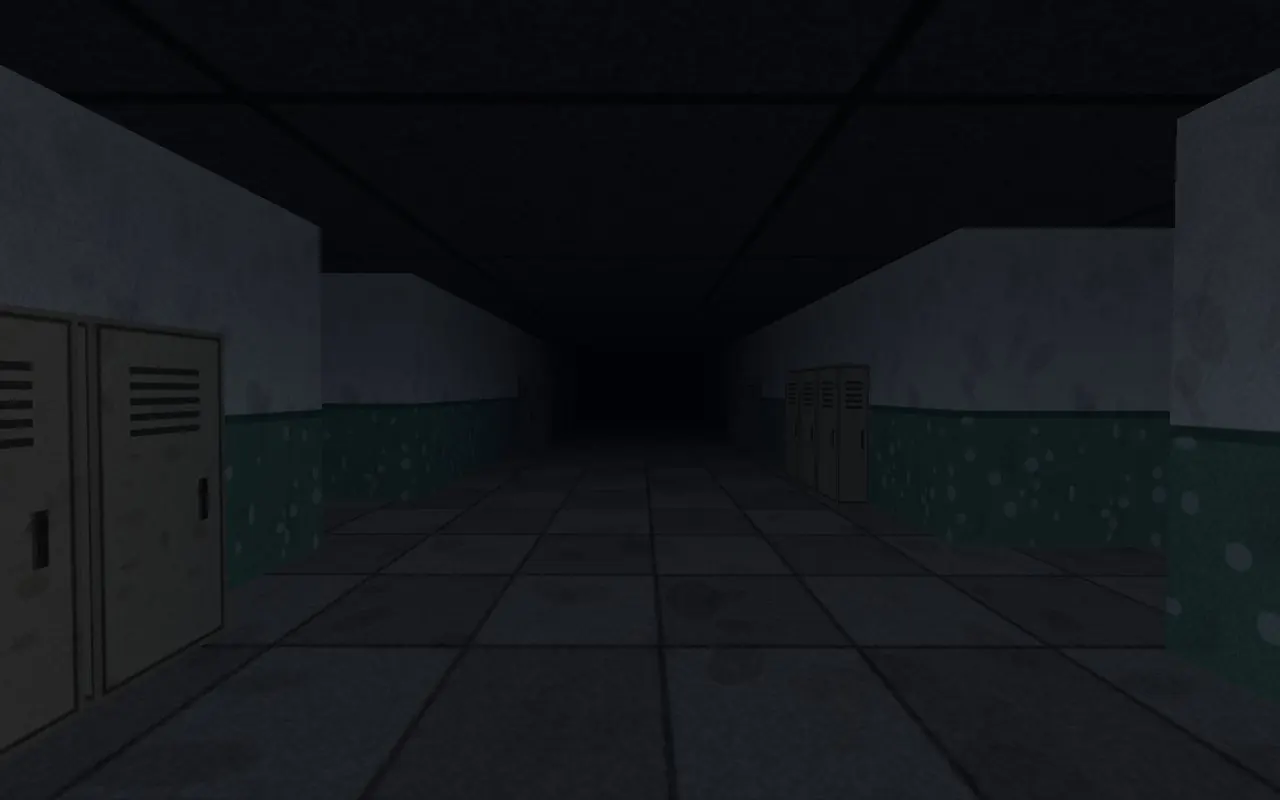
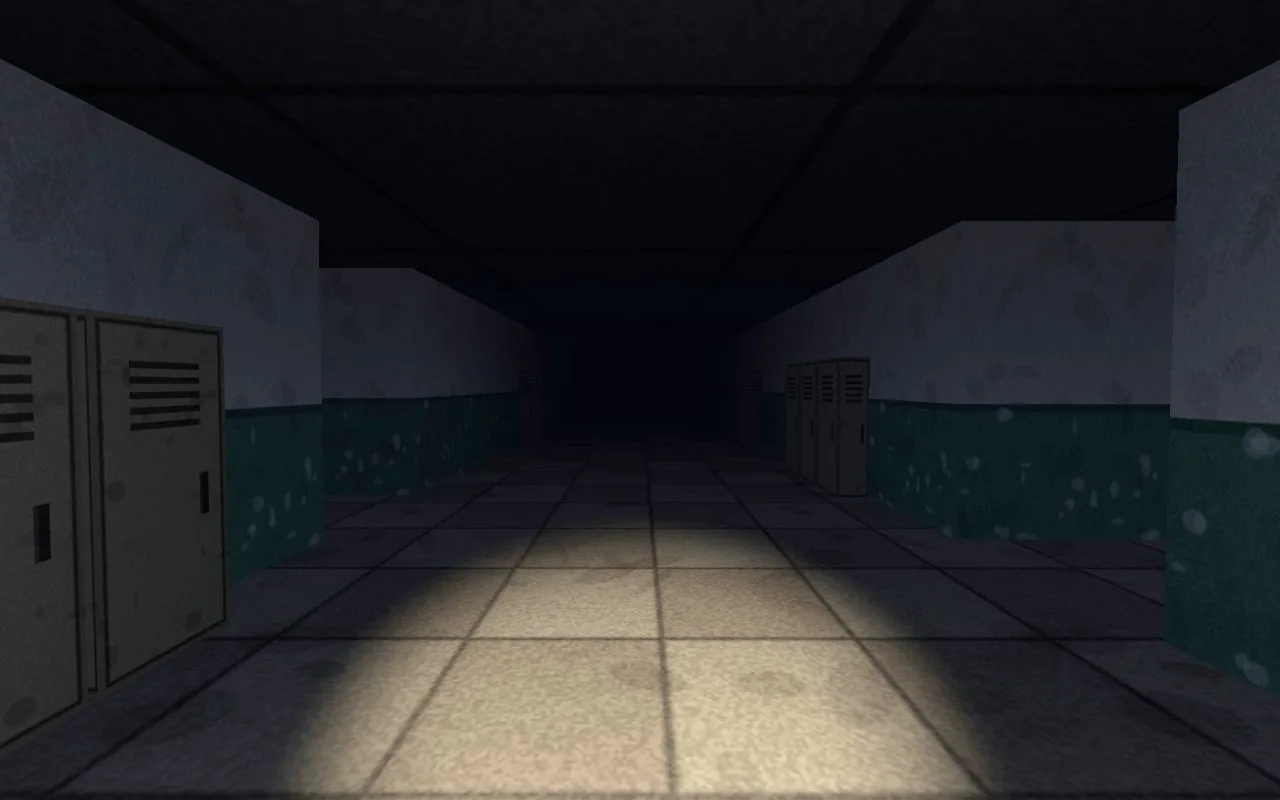
야간자율학습 — 손전등 수리 + 화면 어둡게 + 발소리 교체 + 카드 그림
폰에서 너무 밝다는 지적을 좇다가 진짜 원인을 찾았다.

★ 손전등이 여태 아무것도 안 밝히고 있었다.
  재질이 MeshLambertMaterial 이라 빛을 꼭짓점에서만 계산하는데(Gouraud),
  벽 한 면이 꼭짓점 넷, 바닥은 학교 전체가 판 한 장이라
  좁은 손전등 원뿔(25도)이 꼭짓점 사이로 빠져나가 아무 데도 안 닿았다.
  화면에 보이던 밝기는 전부 바탕빛이었고, 그래서 어디를 가나 고르게 밝았다.
  MeshPhongMaterial(픽셀마다 계산)로 바꾸니 바닥에 원뿔이 제대로 생긴다.

- 바탕빛을 낮췄다: Ambient 0.42→0.19, Hemisphere 0.30→0.13, 안개 0.075→0.085
- 창문·달빛·문틈 빛은 MeshBasicMaterial 이라 바탕빛과 무관하다. 그림 자체를 어둡게 했다
- 결과: 손전등 끈 복도 평균 밝기 24.7 → 17.3, 켜면 23.7
  (고치기 전에는 켜나 끄나 24.7 로 똑같았다)

발소리를 Pixabay 'Walking on the asphalt'(freesound_community, 19807)로 바꿨다.
67초 원본에서 센 발짝 넷을 0.30초씩 잘라 -3.1dB 로 맞췄다. 사용자가 고른 음원이다.

카드 그림을 다시 찍었다. 목록에서 어두운 네모로만 보여 형체가 안 보인다는 지적.
손전등을 켠 복도로 찍고 카드용으로만 밝기를 1.9배 올렸다(게임 밝기와는 무관).

봇 완주 3판 재확인. '바로 플레이' ?v=20260829c, 그림 ?v=2.

diff --git a/games/mini/night-study/play/index.html b/games/mini/night-study/play/index.html
@@ -442,10 +442,10 @@ function makeBattTex(){
 function makeWindowTex(){
   const c=cv(128,128), g=c.getContext('2d');
   const gr=g.createLinearGradient(0,0,0,128);
-  gr.addColorStop(0,'#3d4c6e'); gr.addColorStop(.5,'#26314a'); gr.addColorStop(1,'#141a29');
+  gr.addColorStop(0,'#222d47'); gr.addColorStop(.5,'#161d2e'); gr.addColorStop(1,'#0a0d16');
   g.fillStyle=gr; g.fillRect(0,0,128,128);
   for(let i=0;i<40;i++){
-    g.fillStyle='rgba(200,220,255,'+rnd(.02,.1).toFixed(2)+')';
+    g.fillStyle='rgba(200,220,255,'+rnd(.01,.05).toFixed(2)+')';
     g.beginPath(); g.arc(rnd(0,128),rnd(0,90),rnd(.6,1.8),0,7); g.fill();
   }
   g.fillStyle='#1a1c22';                                  // 창틀
@@ -603,14 +603,15 @@ function drawGhost(revealed){
   return t2;
 }
 
-/* 발소리 — Pixabay 'Foot Steps' (freesound_community, 77348) 에서 한 발짝씩 넉 장을 잘라 넣었다.
-   상업 이용 가능·출처 표기 불필요. 원본 주소는 작업기록.md 에 적어 뒀다.
-   파일로 두지 않고 여기 심는 까닭은 이 게임이 'html 한 장'이기 때문이다. 넷 합쳐 24KB. */
+/* 발소리 — Pixabay 'Walking on the asphalt' (freesound_community, 19807) 에서
+   센 발짝 넷을 골라 0.30초씩 잘라 넣었다. 상업 이용 가능·출처 표기 불필요.
+   원본 주소와 자른 지점은 작업기록.md 에 적어 뒀다.
+   파일로 두지 않고 여기 심는 까닭은 이 게임이 'html 한 장'이기 때문이다. 넷 합쳐 23KB. */
 const STEP_MP3 = [
[8 lines of base64/hex data omitted]
 ];
 
 /* ══════════ 소리 — 파일 없이 그때그때 만들어 낸다 ══════════ */
@@ -767,7 +768,7 @@ renderer.shadowMap.type = THREE.PCFSoftShadowMap;
 
 const scene = new THREE.Scene();
 scene.background = new THREE.Color(0x000000);
-scene.fog = new THREE.FogExp2(0x010206, 0.075);
+scene.fog = new THREE.FogExp2(0x010206, 0.085);
 
 const camera = new THREE.PerspectiveCamera(74, 1, 0.05, 120);
 const yawObj = new THREE.Object3D();          // 좌우 회전
@@ -776,8 +777,8 @@ yawObj.add(pitchObj); pitchObj.add(camera);
 scene.add(yawObj);
 
 // 아주 어두운 바탕빛 + 창으로 드는 푸른 달빛
-scene.add(new THREE.AmbientLight(0x121727, 0.42));
-const moon = new THREE.HemisphereLight(0x2b3c5e, 0x05060a, 0.30);
+scene.add(new THREE.AmbientLight(0x121727, 0.19));
+const moon = new THREE.HemisphereLight(0x2b3c5e, 0x05060a, 0.13);
 scene.add(moon);
 
 // 손전등
@@ -789,7 +790,7 @@ torch.shadow.bias = -0.0016;
 camera.add(torch); camera.add(torch.target);
 torch.target.position.set(0,0,-1);
 // 손전등이 꺼져도 코앞은 조금 보이게
-const nearGlow = new THREE.PointLight(0x8fa4c8, 0.42, 5.6, 1.6);
+const nearGlow = new THREE.PointLight(0x8fa4c8, 0.28, 5.2, 1.6);
 camera.add(nearGlow);
 
 const TEX = {
@@ -824,7 +825,7 @@ function instanced(geo, mat, list, shadow){
     if(!touches) continue;                       // 아무도 못 보는 벽은 안 만든다
     list.push([cx2wx(x), WALL_H/2, cy2wz(y)]);
   }
-  const mat = new THREE.MeshLambertMaterial({map:TEX.wall});
+  const mat = new THREE.MeshPhongMaterial({shininess:1, specular:0x0b0b0e, map:TEX.wall});
   instanced(new THREE.BoxGeometry(CELL,WALL_H,CELL), mat, list, true);
 })();
 
@@ -832,10 +833,10 @@ function instanced(geo, mat, list, shadow){
 (function buildFloorCeil(){
   const W=MW*CELL, D=MH*CELL;
   const f=new THREE.Mesh(new THREE.PlaneGeometry(W,D),
-          new THREE.MeshLambertMaterial({map:TEX.floor}));
+          new THREE.MeshPhongMaterial({shininess:1, specular:0x0b0b0e, map:TEX.floor}));
   f.rotation.x=-Math.PI/2; f.receiveShadow=true; scene.add(f);
   const c=new THREE.Mesh(new THREE.PlaneGeometry(W,D),
-          new THREE.MeshLambertMaterial({map:TEX.ceil}));
+          new THREE.MeshPhongMaterial({shininess:1, specular:0x0b0b0e, map:TEX.ceil}));
   c.rotation.x=Math.PI/2; c.position.y=WALL_H; scene.add(c);
 })();
 
@@ -846,7 +847,7 @@ function instanced(geo, mat, list, shadow){
   const pool=(()=>{                              // 달빛 웅덩이
     const c=cv(128,128), g=c.getContext('2d');
     const gr=g.createRadialGradient(64,64,4,64,64,62);
-    gr.addColorStop(0,'rgba(150,178,235,.5)'); gr.addColorStop(1,'rgba(120,150,220,0)');
+    gr.addColorStop(0,'rgba(150,178,235,.26)'); gr.addColorStop(1,'rgba(120,150,220,0)');
     g.fillStyle=gr; g.fillRect(0,0,128,128);
     return new THREE.CanvasTexture(c);
   })();
@@ -899,14 +900,14 @@ const hideSpots = [];
       if(isWall(x,y1+1) && isWall(x-1,y1+1) && isWall(x+1,y1+1)) bank(x,y1,0);
     }
   });
-  const mat=new THREE.MeshLambertMaterial({map:TEX.locker});
+  const mat=new THREE.MeshPhongMaterial({shininess:1, specular:0x0b0b0e, map:TEX.locker});
   instanced(new THREE.BoxGeometry(0.86,2.0,0.44), mat, list, true);
 })();
 
 /* ── 책상·의자·칠판 ── */
 (function buildRooms(){
   const desks=[], chairs=[];
-  const deskMat=new THREE.MeshLambertMaterial({map:TEX.desk});
+  const deskMat=new THREE.MeshPhongMaterial({shininess:1, specular:0x0b0b0e, map:TEX.desk});
   ROOMS.forEach((r,ri)=>{
     const [x1,y1,x2,y2,name]=r;
     const wx1=cx2wx(x1)-CELL/2, wx2=cx2wx(x2)+CELL/2;
@@ -928,7 +929,7 @@ const hideSpots = [];
       // 칠판 — 옆벽에 건다. 바깥벽에는 창이 있으므로 안쪽 벽을 고른다
       const bw = Math.min(4.2,(wz2-wz1)*0.55);
       const b=new THREE.Mesh(new THREE.PlaneGeometry(bw,1.5),
-              new THREE.MeshLambertMaterial({map:makeBoardTex()}));
+              new THREE.MeshPhongMaterial({shininess:1, specular:0x0b0b0e, map:makeBoardTex()}));
       if(x2 >= MW-2){ b.position.set(wx1+0.05, 1.62, mz); b.rotation.y =  Math.PI/2; }
       else          { b.position.set(wx2-0.05, 1.62, mz); b.rotation.y = -Math.PI/2; }
       scene.add(b);
@@ -943,11 +944,11 @@ let exitDoor, exitLight, exitSignMat;
 (function buildExit(){
   const ex=(cx2wx(14)+cx2wx(15))/2, ez=cy2wz(25)+CELL/2-0.05;
   const g=new THREE.PlaneGeometry(CELL*1.9, 2.5);
-  exitDoor=new THREE.Mesh(g, new THREE.MeshLambertMaterial({color:0x2a2118}));
+  exitDoor=new THREE.Mesh(g, new THREE.MeshPhongMaterial({shininess:1, specular:0x0b0b0e, color:0x2a2118}));
   exitDoor.position.set(ex,1.25,ez); exitDoor.rotation.y=Math.PI; scene.add(exitDoor);
   // 문틈으로 새는 바깥 불빛
   const slit=new THREE.Mesh(new THREE.PlaneGeometry(CELL*1.9,0.1),
-    new THREE.MeshBasicMaterial({color:0x9fb6d8, transparent:true, opacity:.5}));
+    new THREE.MeshBasicMaterial({color:0x9fb6d8, transparent:true, opacity:.34}));
   slit.position.set(ex,0.06,ez-0.06); slit.rotation.x=-Math.PI/2; scene.add(slit);
 
   const signGeo=new THREE.PlaneGeometry(1.1,0.55);
@@ -1011,7 +1012,7 @@ function spawnPickups(nPaper, nBatt){
     scene.add(m);
     const h = new THREE.Mesh(new THREE.PlaneGeometry(1.5,1.5),
       new THREE.MeshBasicMaterial({map:halo, transparent:true,
-        blending:THREE.AdditiveBlending, depthWrite:false, opacity:.5}));
+        blending:THREE.AdditiveBlending, depthWrite:false, opacity:.34}));
     h.position.copy(m.position); scene.add(h);
     pickups.push({kind, mesh:m, halo:h, x:px, z:pz, taken:false, ph:rnd(0,6.3)});
   };
@@ -1653,6 +1654,8 @@ window.__ns = {
   start: startGame,
   mute: v=>Snd.mute(v),
   sfx: ()=>Snd.stepInfo(),
+  light: ()=>({손전등:+torch.intensity.toFixed(2), 켬:P.torch,
+               바탕:scene.children.filter(o=>o.isLight).map(o=>o.type+':'+o.intensity)}),
   bfs, setGoal, isWall, wx2cx, wz2cy, D:()=>D, MAP,
   // 창이 숨겨져 있어도 손으로 시간을 흘려 볼 수 있게
   step:(dt,times)=>{ for(let i=0;i<(times||1);i++){ if(RUN_STATE!=='play') break; tick(dt||1/60);} return RUN_STATE; },

diff --git a/games/mini/night-study/index.html b/games/mini/night-study/index.html
@@ -21,7 +21,7 @@
 <meta property="og:title" content="야간자율학습 — 공포게임">
 <meta property="og:description" content="설치 없이 바로 하는 게임. 밤의 폐교에서 귀신을 피해 시험지를 모아 탈출하는 3D 웹게임.">
 <meta property="og:url" content="https://oreumgames.com/games/mini/night-study/">
-<meta property="og:image" content="https://oreumgames.com/assets/night-study-shot.webp?v=1">
+<meta property="og:image" content="https://oreumgames.com/assets/night-study-shot.webp?v=2">
 <meta property="og:locale" content="ko_KR">
 <meta name="twitter:card" content="summary_large_image">
 
@@ -34,7 +34,7 @@
   "name": "야간자율학습",
   "alternateName": "NIGHT STUDY",
   "url": "https://oreumgames.com/games/mini/night-study/",
-  "image": "https://oreumgames.com/assets/night-study-shot.webp?v=1",
+  "image": "https://oreumgames.com/assets/night-study-shot.webp?v=2",
   "description": "밤의 폐교에서 귀신을 피해 시험지 6장을 모아 1층 현관으로 탈출하는 3D 공포게임. 손전등을 켜면 잘 보이지만 귀신 눈에도 잘 띕니다.",
   "genre": ["Horror", "Survival"],
   "applicationCategory": "GameApplication",
@@ -88,11 +88,11 @@
   <section class="showcase">
     <div class="wrap game-page">
       <a class="backlink" href="/games/mini/">← 미니게임 목록</a>
-      <div class="gp-shot"><img src="/assets/night-study-shot.webp?v=1" alt="어두운 폐교 복도. 양옆으로 낡은 사물함이 늘어서 있고 복도 끝은 캄캄하다" width="1280" height="800"></div>
+      <div class="gp-shot"><img src="/assets/night-study-shot.webp?v=2" alt="어두운 폐교 복도. 양옆으로 낡은 사물함이 늘어서 있고, 손전등 빛이 바닥을 비추며 복도 끝은 캄캄하다" width="1280" height="800"></div>
       <h1>야간자율학습</h1>
       <p class="gp-line">야자하다 엎드려 잠들었습니다. 눈을 뜨니 학교에 아무도 없습니다.
               흩어진 시험지 6장을 모아 1층 현관으로 나가야 하는데</p>
-      <p class="gp-cta"><a class="btn btn-primary" href="play/?v=20260829b">🎮 바로 플레이</a></p>
+      <p class="gp-cta"><a class="btn btn-primary" href="play/?v=20260829c">🎮 바로 플레이</a></p>
       <dl class="spec"><dt>분류</dt><dd>공포게임 · 호러게임 · 3D게임 · 웹게임</dd>
               <dt>제작기간</dt><dd>1일</dd>
               <dt>사용기술</dt><dd>HTML / JavaScript / three.js</dd>

diff --git a/games/mini/index.html b/games/mini/index.html
@@ -47,7 +47,7 @@
         "alternateName": "NIGHT STUDY",
         "url": "https://oreumgames.com/games/mini/night-study/",
         "description": "밤의 폐교에서 귀신을 피해 시험지 6장을 모아 1층 현관으로 탈출하는 3D 공포게임. 손전등을 켜면 잘 보이지만 귀신 눈에도 잘 띕니다.",
-        "image": "https://oreumgames.com/assets/night-study-shot.webp?v=1",
+        "image": "https://oreumgames.com/assets/night-study-shot.webp?v=2",
         "genre": [
           "Horror",
           "Survival"
@@ -439,7 +439,7 @@
 
         <li class="card" id="night-study">
           <a class="card-shot" href="night-study/">
-            <img src="/assets/night-study-shot.webp?v=1" alt="어두운 폐교 복도. 양옆으로 낡은 사물함이 늘어서 있고 복도 끝은 캄캄하다" loading="lazy" width="1280" height="800">
+            <img src="/assets/night-study-shot.webp?v=2" alt="어두운 폐교 복도. 양옆으로 낡은 사물함이 늘어서 있고, 손전등 빛이 바닥을 비추며 복도 끝은 캄캄하다" loading="lazy" width="1280" height="800">
           </a>
           <div class="card-body">
             <h3><a href="night-study/">야간자율학습</a></h3>
@@ -455,7 +455,7 @@
               <dt>제작일</dt><dd>2026-08-29</dd>
             </dl>
             <div class="card-cta">
-              <a class="btn btn-primary" href="night-study/play/?v=20260829b">🎮 바로 플레이</a>
+              <a class="btn btn-primary" href="night-study/play/?v=20260829c">🎮 바로 플레이</a>
             </div>
 
             <div class="talk"><p class="talk-title">플레이해본 소감 한마디</p><p class="talk-go"><a href="/board/">커뮤니티 바로가기 →</a></p></div>

diff --git a/index.html b/index.html
@@ -388,7 +388,7 @@
           <span class="mbody"><b>S.A.A.B.</b><i>FPS게임 · 3D 슈팅게임</i></span>
         </a>
         <a class="mini" href="/games/mini/night-study/">
-          <span class="shot"><img src="/assets/night-study-shot.webp?v=1" alt="어두운 폐교 복도. 양옆으로 낡은 사물함이 늘어서 있고 복도 끝은 캄캄하다" width="800" height="500" loading="lazy"><span class="kind">MINI</span></span>
+          <span class="shot"><img src="/assets/night-study-shot.webp?v=2" alt="어두운 폐교 복도. 양옆으로 낡은 사물함이 늘어서 있고, 손전등 빛이 바닥을 비추며 복도 끝은 캄캄하다" width="800" height="500" loading="lazy"><span class="kind">MINI</span></span>
           <span class="mbody"><b>야간자율학습</b><i>공포게임 · 폐교 탈출</i></span>
         </a>
         <a class="mini" href="/games/making-kimchi/">

diff --git a/games/index.html b/games/index.html
@@ -67,7 +67,7 @@
           <span class="mbody"><b>S.A.A.B.</b><i>FPS게임 · 3D 슈팅게임</i></span>
         </a>
         <a class="mini" href="/games/mini/night-study/">
-          <span class="shot"><img src="/assets/night-study-shot.webp?v=1" alt="어두운 폐교 복도. 양옆으로 낡은 사물함이 늘어서 있고 복도 끝은 캄캄하다" width="800" height="500" loading="lazy"><span class="kind">MINI</span></span>
+          <span class="shot"><img src="/assets/night-study-shot.webp?v=2" alt="어두운 폐교 복도. 양옆으로 낡은 사물함이 늘어서 있고, 손전등 빛이 바닥을 비추며 복도 끝은 캄캄하다" width="800" height="500" loading="lazy"><span class="kind">MINI</span></span>
           <span class="mbody"><b>야간자율학습</b><i>공포게임 · 폐교 탈출</i></span>
         </a>
         <a class="mini" href="/games/making-kimchi/">
